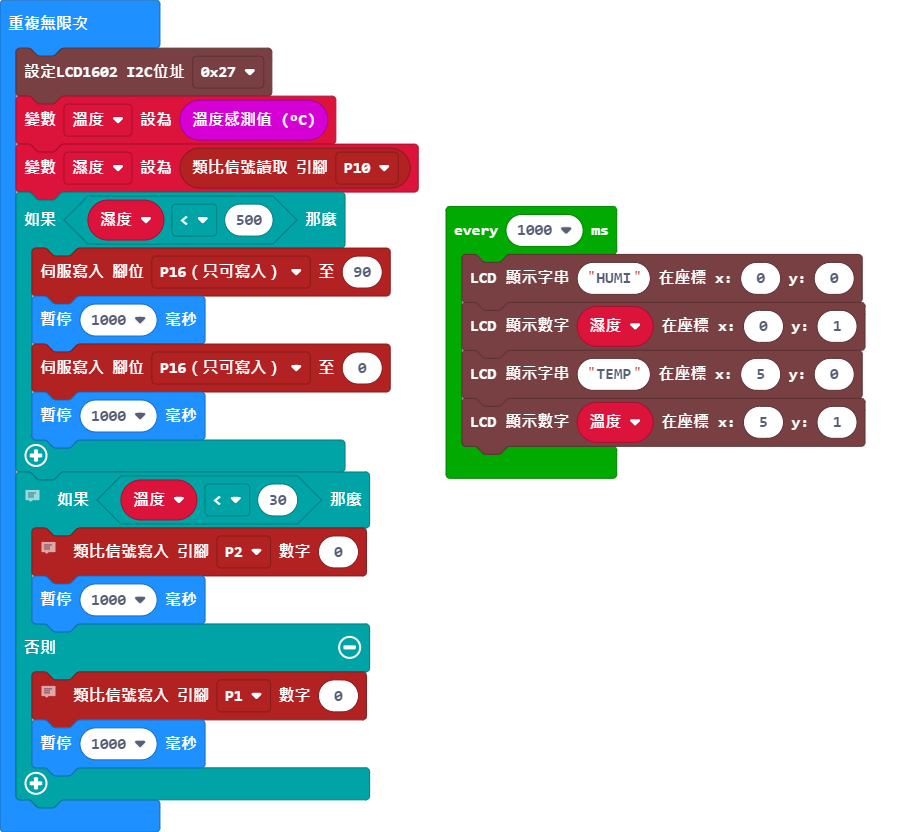
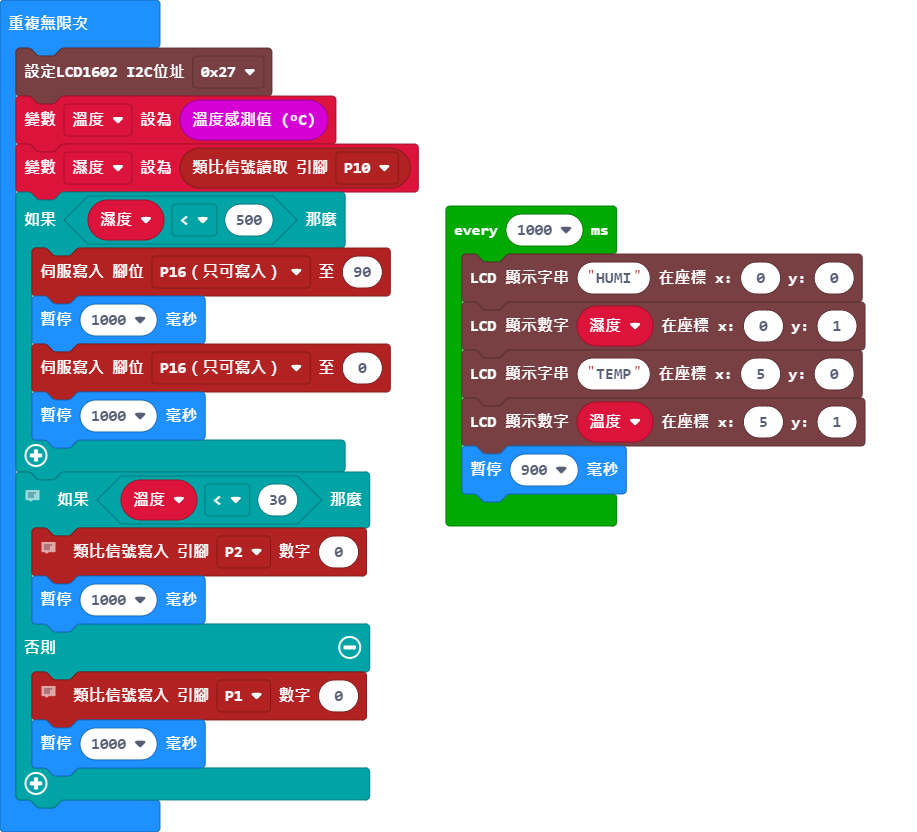
更新 main.blocks, main.ts

diff --git a/main.ts b/main.ts
@@ -5,6 +5,7 @@ loops.everyInterval(1000, function () {
     lcd1602.putNumber(濕度, 0, 1)
     lcd1602.putString("TEMP", 5, 0)
     lcd1602.putNumber(溫度, 5, 1)
+    basic.pause(900)
 })
 basic.forever(function () {
     lcd1602.setAddress(
